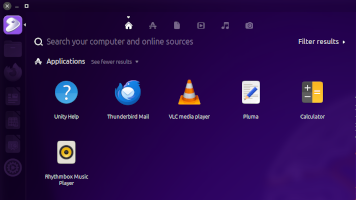
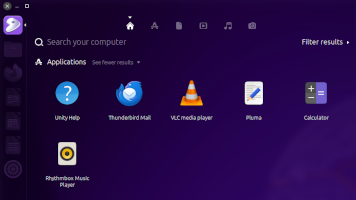
[resolute] unity-base/unity-control-center, x11-themes/yaru-theme: fix background to respect theme selection and hover unity-base/ubuntu-docs: update pictures

diff --git a/x11-themes/yaru-theme/files/gtk-widgets-questing.css b/x11-themes/yaru-theme/files/gtk-widgets-questing.css
@@ -13,3 +13,9 @@ decoration {
     border-top-left-radius: 0;
     border-top-right-radius: 0;
 }
+
+/* u-c-c background */
+window box notebook scrolledwindow viewport box frame box iconview,
+window box notebook scrolledwindow viewport box frame box iconview:backdrop {
+    background-color: rgba(0, 0, 0, 0);
+}
